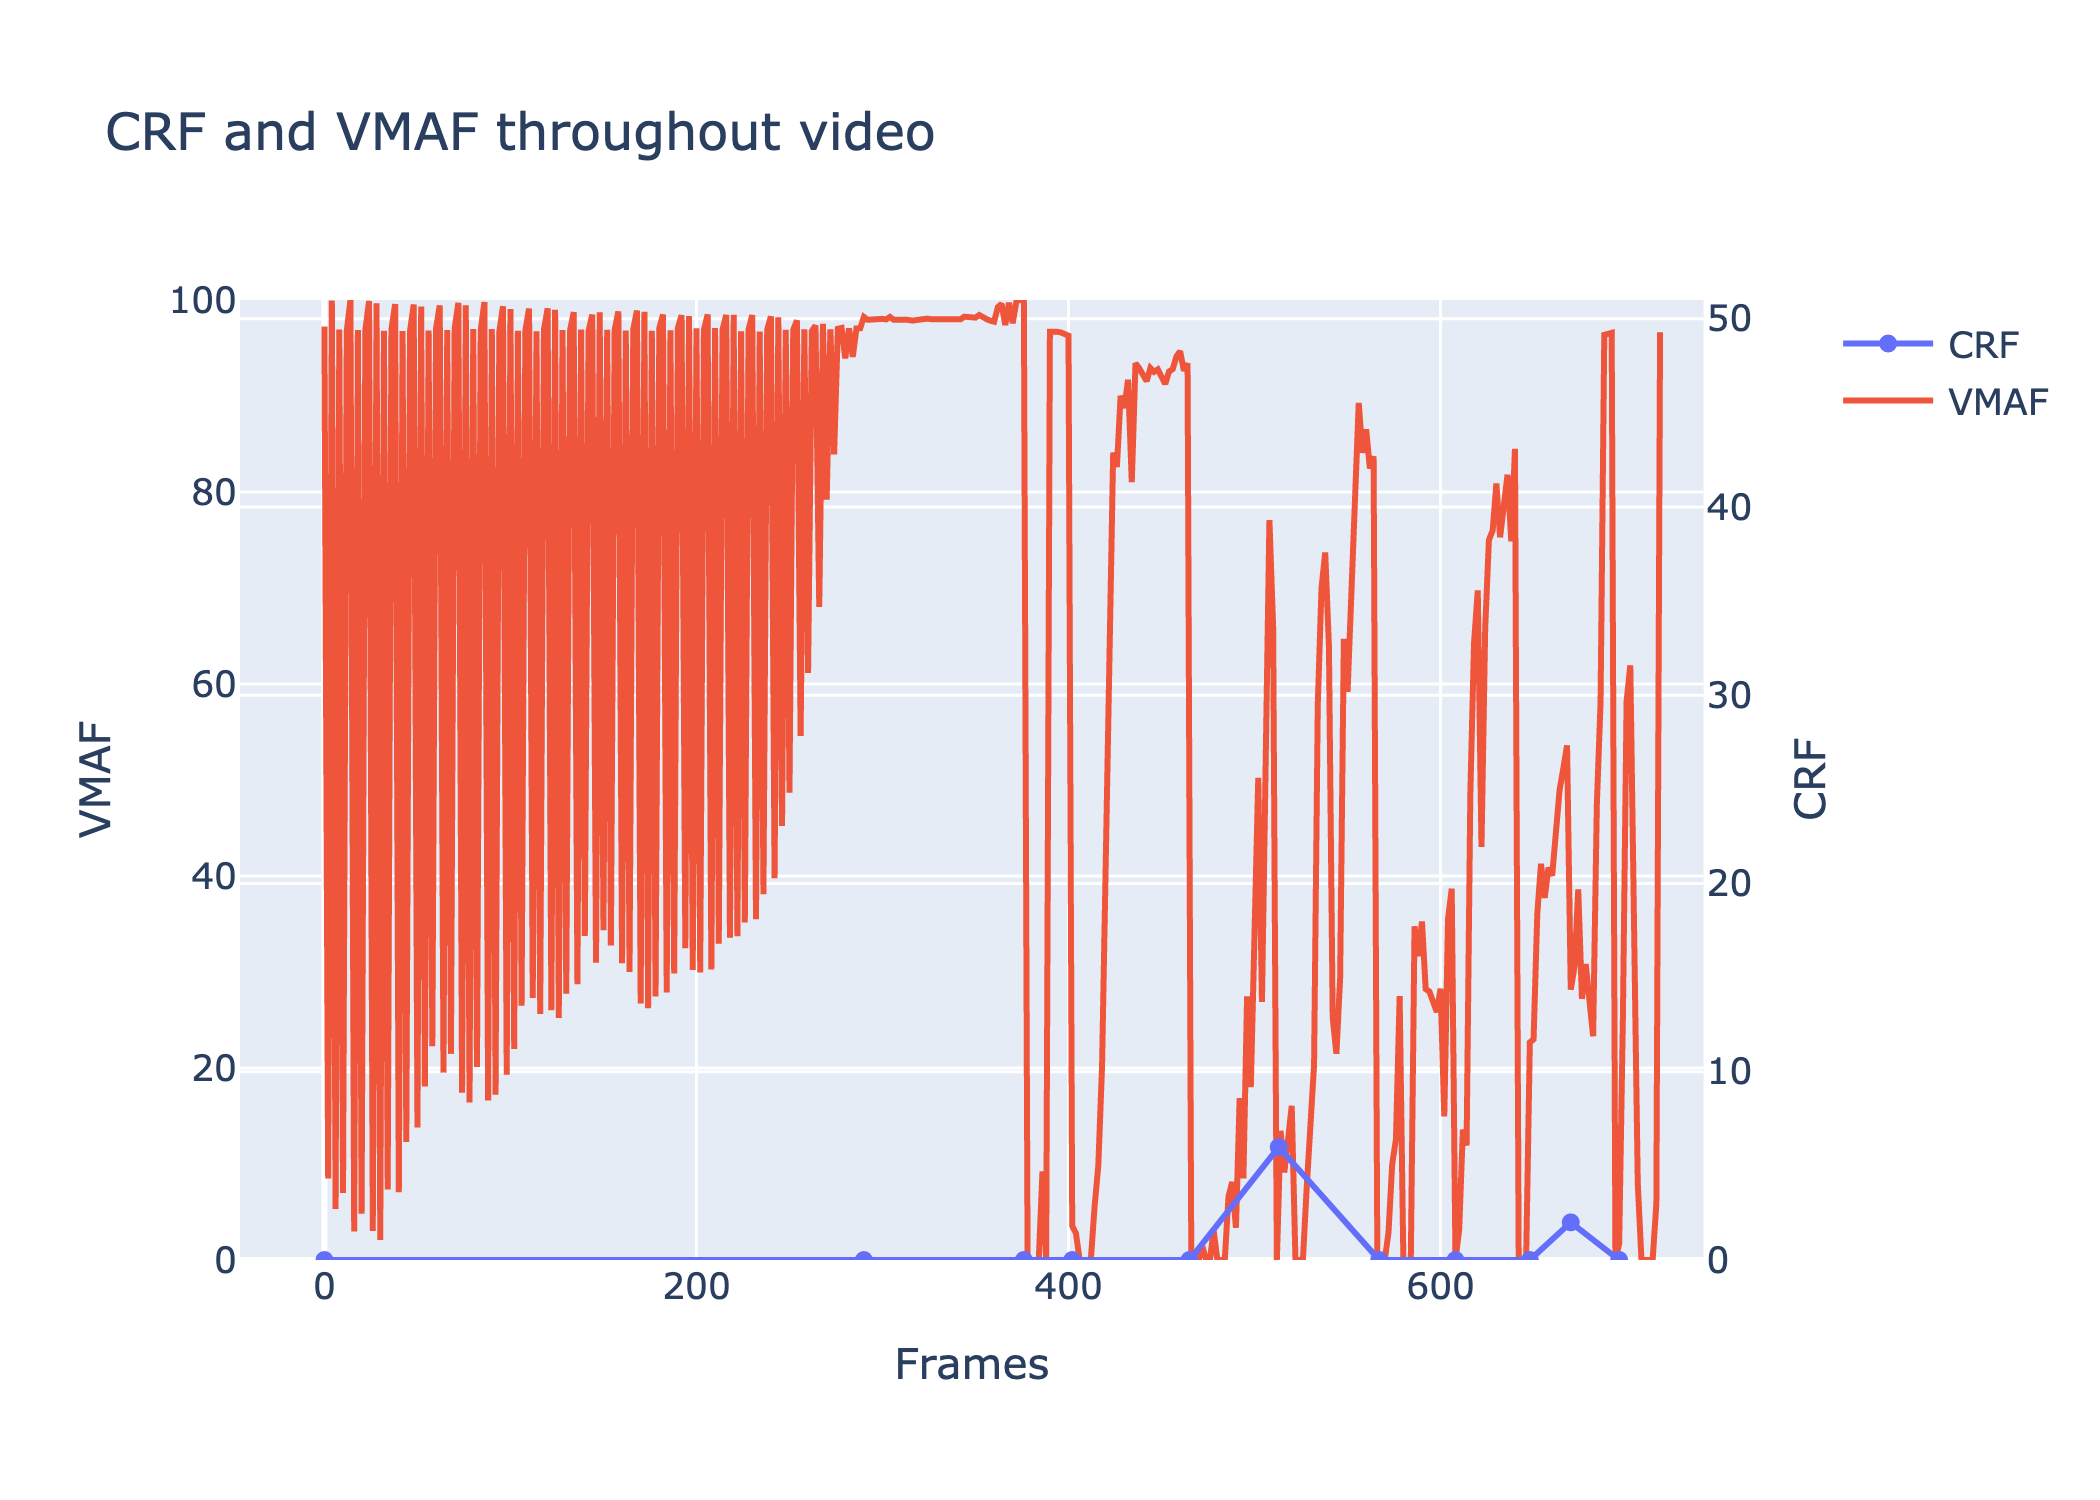
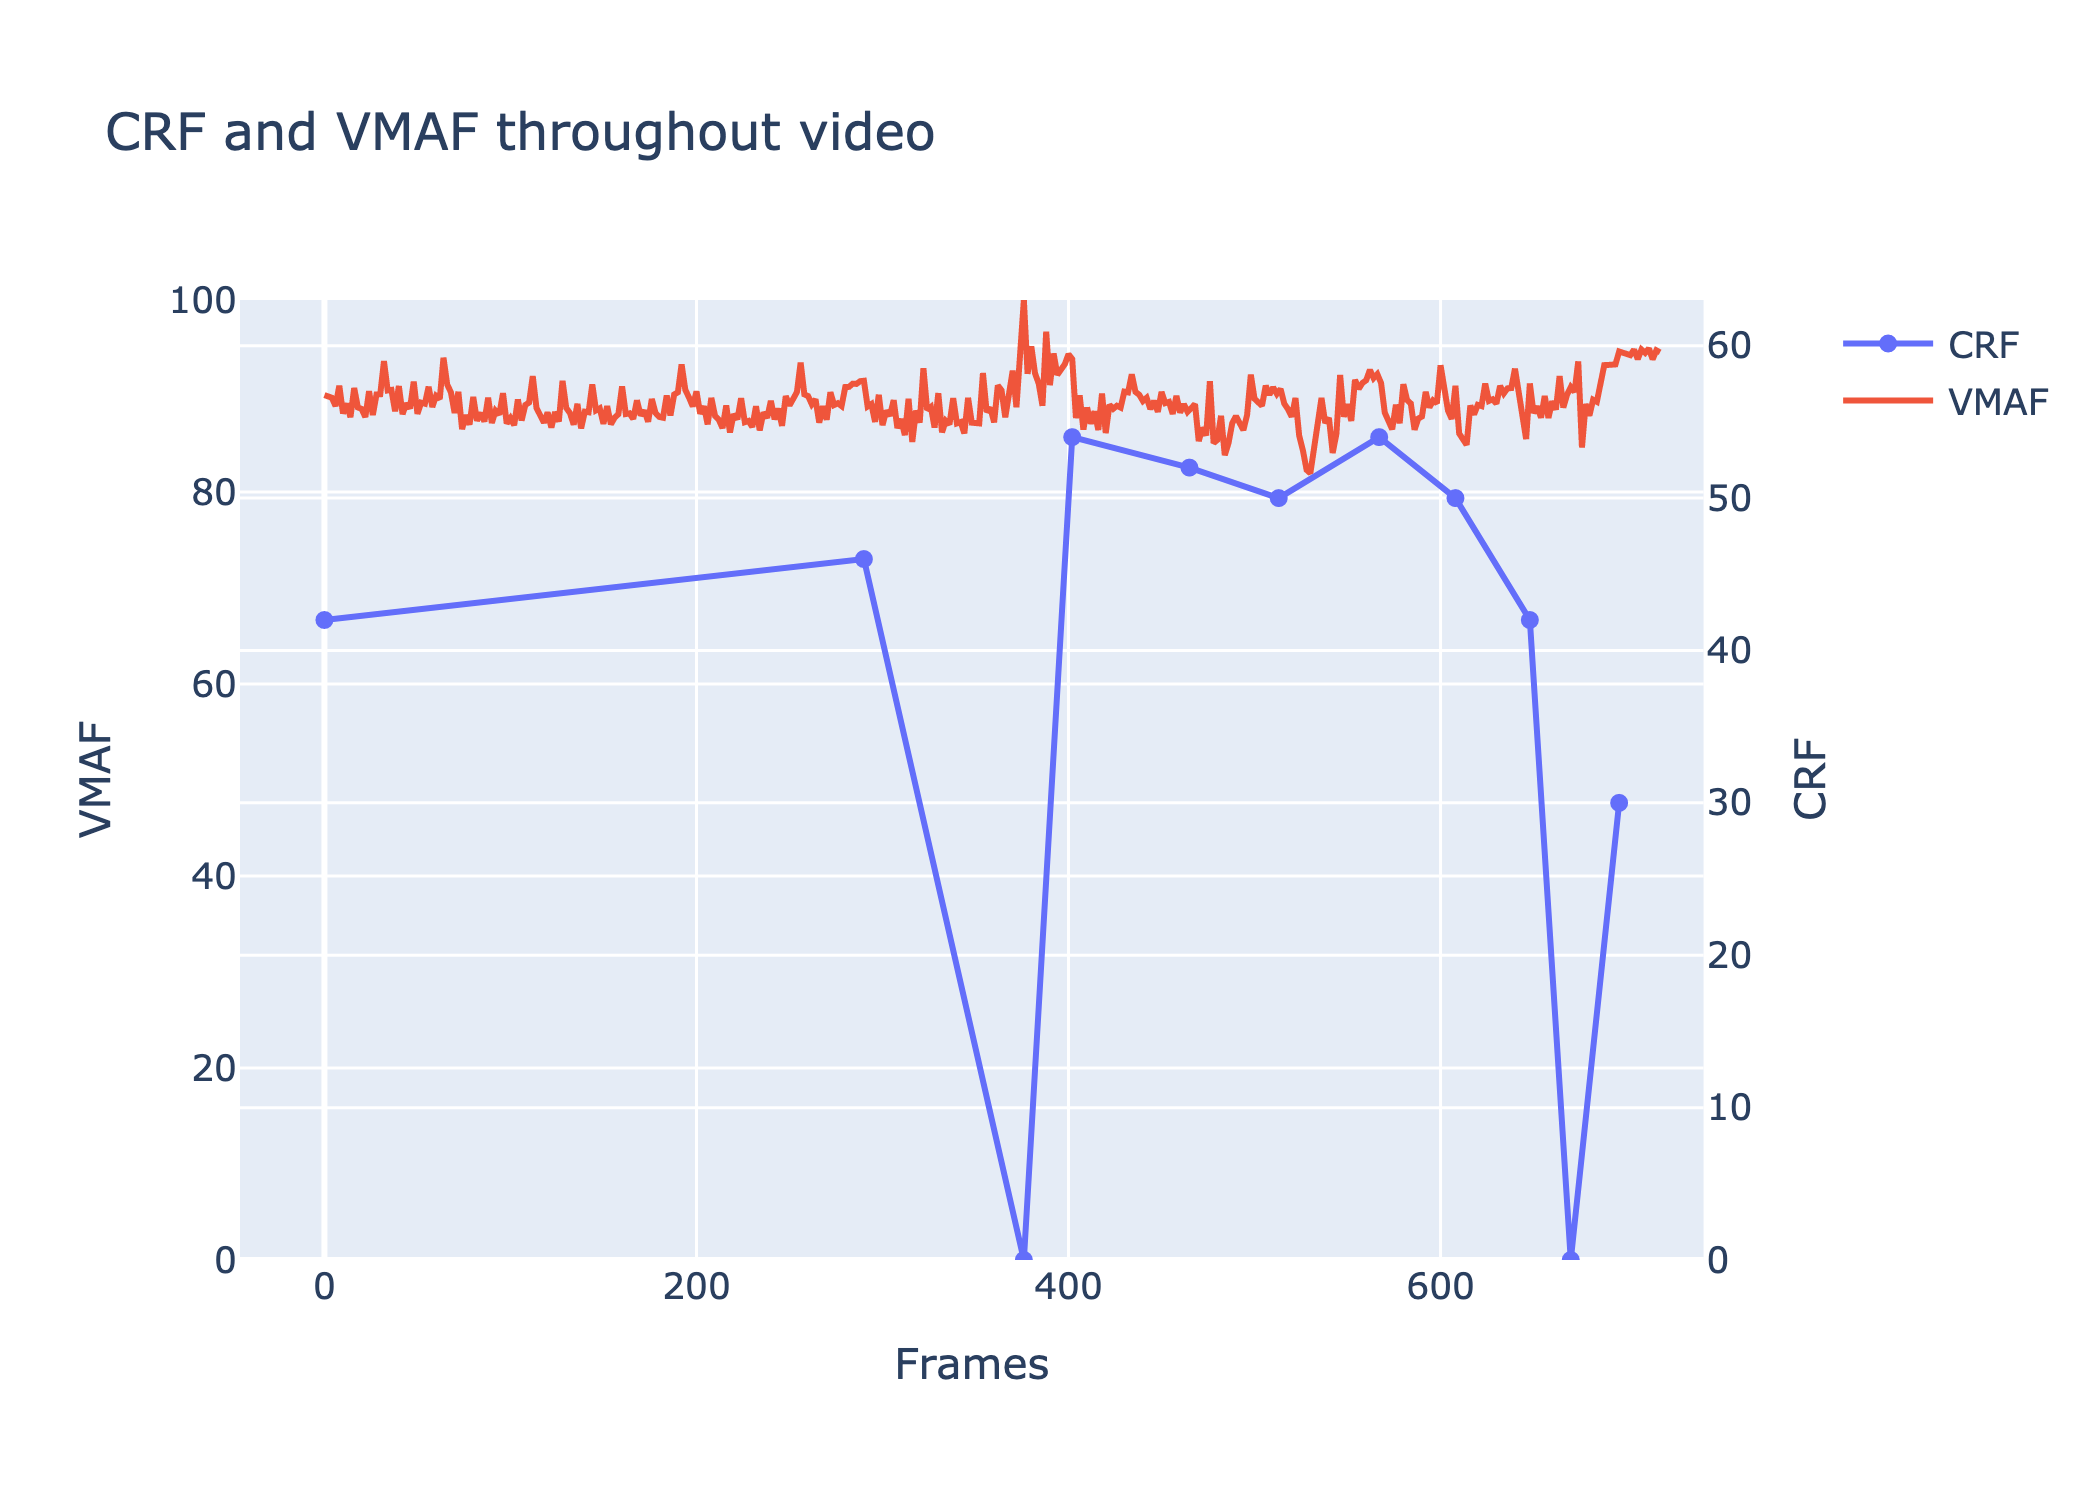
finally 100% working

Changed region(s): [[0.1548, 0.184, 0.8357, 0.8587]]

diff --git a/src/testing-functionality.py b/src/testing-functionality.py
@@ -4,63 +4,111 @@ from rich import print
 import ffmpeg_heuristics
 import graph_generate
 import scene_detection
+# import subprocess
+
 
 input_file = "short-smallest.mp4"
 output_file = "testing-functionality-file.mp4"
 
 
-def split_rejoin_on_scenes_test():
-    scenes = scene_detection.find_scenes(input_file, threshold=27)
-    output_file_names = [f"{x}-{output_file}" for x in range(len(scenes))]
-    for i, scene in enumerate(scenes):
-        with ffmpeg.FfmpegCommand(
-            input_file,
-            ffmpeg.SVTAV1(),
-            scene.start_timecode,
-            scene.end_timecode,
-            output_file_names[i],
-            "ffmpeg",
-            None,
-            "yuv420p10le",
-            300,
-        ) as command:
-            command.run_ffmpeg_command(
-                2,  # lossless
-            )
-
-    ffmpeg.concatenate_video_files(output_file_names, output_file, "ffmpeg")
-
-    for file in output_file_names:
-        os.remove(file)
-
-    del output_file_names
-
-    vmaf = ffmpeg_heuristics.VMAF(90).throughout_video(
-        input_file, output_file, "ffmpeg", subsample=1
+def print_frames_count(file_name: str, video_name: str) -> None:
+    print(f"Filename: {file_name} frames:")
+    _ = os.system(
+        f"ffprobe -i {file_name} -print_format json -loglevel fatal -show_streams -count_frames -select_streams v | grep frames"
     )
 
-    with graph_generate.linegraph_image(
-        "comparison_graph", "png", "TEST - compare VMAF with almost lossless", "frames"
-    ) as graph:
-        graph.add_linegraph(
-            list(range(len(vmaf))), vmaf, "vmaf", "lines", "left", range(0, 101)
+
+class split_rejoin_on_scenes_test:
+    def __init__(self) -> None:
+        scenes = scene_detection.find_scenes(input_file, threshold=27)
+        output_file_names = [f"{x}-{output_file}" for x in range(len(scenes))]
+
+        self.split_usual_method(scenes, output_file_names)
+        # self.split_using_segment_muxer_fragile_implementation(scenes, output_file_names)
+
+        ffmpeg.concatenate_video_files(output_file_names, output_file, "ffmpeg")
+
+        for file in output_file_names:
+            os.remove(file)
+
+        del output_file_names
+
+        # vmaf = ffmpeg_heuristics.VMAF(90).throughout_video(
+        #     input_file, output_file, "ffmpeg", subsample=1
+        # )
+        vmaf = ffmpeg_heuristics.VMAF(90).throughout_video(
+            input_file,
+            output_file,
+            "ffmpeg",
+            subsample=1,
+            encode_start_end_frame=(10, 100),
+            source_start_end_frame=(10, 100),
         )
 
-    ffmpeg.visual_comparison_of_video_with_blend_filter(
-        input_file,
-        output_file,
-        "ffmpeg",
-        "TEST - compare with virtually lossless.mp4",
-    )
+        with graph_generate.linegraph_image(
+            "comparison_graph",
+            "png",
+            "TEST - compare VMAF with almost lossless",
+            "frames",
+        ) as graph:
+            graph.add_linegraph(
+                list(range(len(vmaf))), vmaf, "vmaf", "lines", "left", range(0, 101)
+            )
 
-    # At the end
-    print("vmaf data:")
-    print(vmaf)
+        ffmpeg.visual_comparison_of_video_with_blend_filter(
+            input_file,
+            output_file,
+            "ffmpeg",
+            "TEST - compare with virtually lossless.mp4",
+        )
+
+        # At the end
+        print("vmaf data:")
+        print(vmaf)
+
+        print_frames_count(input_file, input_file)
+        print_frames_count(output_file, output_file)
+
+    ########## Spliting methods
+
+    def split_usual_method(
+        self, scenes: list[scene_detection.scene_data], output_file_names: list[str]
+    ) -> None:
+        for i, scene in enumerate(scenes):
+            with ffmpeg.FfmpegCommand(
+                input_file,
+                ffmpeg.SVTAV1(),
+                scene.start_frame,
+                scene.end_frame,
+                output_file_names[i],
+                "ffmpeg",
+                None,
+                "yuv420p10le",
+                300,
+            ) as command:
+                command.run_ffmpeg_command(
+                    2,  # lossless
+                )
+
+    def split_using_segment_muxer_fragile_implementation(
+        self, scenes: list[scene_detection.scene_data], output_file_names: list[str]
+    ):
+        # for scene, filename in zip(scenes, output_file_names):
+        segment_times = ",".join(str(x.start_timecode) for x in scenes)
+        _ = os.system(
+            f"ffmpeg -i {input_file} -c copy -reset_timestamps 1 -segment_times {segment_times} -y -f segment %02d-{output_file}"
+        )
+        _ = input(
+            f"ffmpeg -i {input_file} -c copy -reset_timestamps 1 -segment_times {segment_times} -y -f segment %02d-{output_file}"
+        )
+        _ = input(len([str(x.start_timecode) for x in scenes]))
 
 
 def main() -> None:
     """Running tests to ensure functions are working"""
-    split_rejoin_on_scenes_test()  # This has shown that it is definitely a video splitting problem
+    _ = (
+        split_rejoin_on_scenes_test()
+    )  # This has shown that it is definitely a video splitting problem
 
 
 if __name__ == "__main__":

diff --git a/src/ffmpeg_heuristics.py b/src/ffmpeg_heuristics.py
@@ -1,4 +1,5 @@
 from dataclasses import dataclass
+import ffmpeg
 import os
 import json
 import subprocess
@@ -37,22 +38,25 @@ class VMAF:
         source_video_path: str,
         encoded_video_path: str,
         ffmpeg_path: str,
-        source_start_end_time: None | tuple[str, str] = None,
-        encode_start_end_time: None | tuple[str, str] = None,
+        source_start_end_frame: None | tuple[int, int] = None,
+        encode_start_end_frame: None | tuple[int, int] = None,
         threads_to_use: int = 6,
         subsample: int = 2,  # Calculate per X frames
     ) -> float:
         print("Running FFMPEG COMMAND for vmaf")
         ffmpeg_command: list[str] = [ffmpeg_path, "-hide_banner"]
+        frame_rate = ffmpeg.get_frame_rate(encoded_video_path)
 
-        if encode_start_end_time is not None:
-            ffmpeg_command.extend(["-ss", encode_start_end_time[0]])
-            ffmpeg_command.extend(["-to", encode_start_end_time[1]])
+        if encode_start_end_frame is not None:
+            ffmpeg_command.extend(["-ss", str(encode_start_end_frame[0] / frame_rate)])
+            ffmpeg_command.extend(["-to", str(encode_start_end_frame[1] / frame_rate)])
+        ffmpeg_command.extend(["-r", str(frame_rate)])
         ffmpeg_command.extend(["-i", encoded_video_path])
 
-        if source_start_end_time is not None:
-            ffmpeg_command.extend(["-ss", source_start_end_time[0]])
-            ffmpeg_command.extend(["-to", source_start_end_time[1]])
+        if source_start_end_frame is not None:
+            ffmpeg_command.extend(["-ss", str(source_start_end_frame[0] / frame_rate)])
+            ffmpeg_command.extend(["-to", str(source_start_end_frame[1] / frame_rate)])
+        ffmpeg_command.extend(["-r", str(frame_rate)])
         ffmpeg_command.extend(["-i", source_video_path])
 
         # https://www.bannerbear.com/blog/how-to-trim-a-video-using-ffmpeg/#:~:text=You%20can%20trim%20the%20input%20video%20to%20a%20specific%20duration,the%20beginning%20of%20the%20video.&text=In%20the%20command%20above%2C%20%2Dvf,the%20duration%20to%203%20seconds.
@@ -99,22 +103,25 @@ class VMAF:
         source_video_path: str,
         encoded_video_path: str,
         ffmpeg_path: str,
-        source_start_end_time: None | tuple[str, str] = None,
-        encode_start_end_time: None | tuple[str, str] = None,
+        source_start_end_frame: None | tuple[int, int] = None,
+        encode_start_end_frame: None | tuple[int, int] = None,
         threads_to_use: int = 6,
         subsample: int = 2,  # Calculate per X frames
     ) -> list[float]:
         print("Running FFMPEG-throughout COMMAND for vmaf")
         ffmpeg_command: list[str] = [ffmpeg_path, "-hide_banner"]
+        frame_rate = ffmpeg.get_frame_rate(encoded_video_path)
 
-        if encode_start_end_time is not None:
-            ffmpeg_command.extend(["-ss", encode_start_end_time[0]])
-            ffmpeg_command.extend(["-to", encode_start_end_time[1]])
+        if encode_start_end_frame is not None:
+            ffmpeg_command.extend(["-ss", str(encode_start_end_frame[0] / frame_rate)])
+            ffmpeg_command.extend(["-to", str(encode_start_end_frame[1] / frame_rate)])
+        ffmpeg_command.extend(["-r", str(frame_rate)])
         ffmpeg_command.extend(["-i", encoded_video_path])
 
-        if source_start_end_time is not None:
-            ffmpeg_command.extend(["-ss", source_start_end_time[0]])
-            ffmpeg_command.extend(["-to", source_start_end_time[1]])
+        if source_start_end_frame is not None:
+            ffmpeg_command.extend(["-ss", str(source_start_end_frame[0] / frame_rate)])
+            ffmpeg_command.extend(["-to", str(source_start_end_frame[1] / frame_rate)])
+        ffmpeg_command.extend(["-r", str(frame_rate)])
         ffmpeg_command.extend(["-i", source_video_path])
 
         ffmpeg_command.extend(
@@ -130,6 +137,7 @@ class VMAF:
         )
 
         try:
+            print(f"RUNNNING COMMAND: {" ".join(ffmpeg_command)}")
             _ = subprocess.run(" ".join(ffmpeg_command), shell=True, check=True)
         except FileNotFoundError as e:
             print("WARNING: FFMPEG NOT FOUND ON SYSTEM!!")

diff --git a/src/ffmpeg.py b/src/ffmpeg.py
@@ -135,8 +135,8 @@ class FfmpegCommand:
     input_filename: str
     codec_information: video
 
-    start_time_seconds: str
-    end_time_seconds: str
+    start_time_frame: int
+    end_time_frame: int
 
     output_filename: str
     ffmpeg_path: str
@@ -151,13 +151,21 @@ class FfmpegCommand:
     def run_ffmpeg_command(
         self, crf_value: int, override_output_file_name: str | None = None
     ) -> None:
+        # self.end_time_frame -= (
+        #     0  # TO PREVENT OVERLAP BETWEEN FRAMES --> prevent duplication
+        # )
+
+        framerate: float = get_frame_rate(self.input_filename)
+        start_time_seconds = self.start_time_frame / framerate
+        end_time_seconds = self.end_time_frame / framerate
+
         command: list[str] = [
             self.ffmpeg_path,
             # "-hide_banner -loglevel error",
             "-accurate_seek",
             f'-i "{self.input_filename}"',
-            f"-ss {self.start_time_seconds}",  # -ss After is **very important** for accuracy!!
-            f"-to {self.end_time_seconds}",
+            f"-ss {start_time_seconds}",  # -ss After is **very important** for accuracy!!
+            f"-to {end_time_seconds}",
             # f"-vf trim={self.start_time_seconds}:{self.end_time_seconds},setpts=PTS-STARTPTS",  # is this faster + as accurate?
             *self.codec_information.to_subprocess_command(),
             "-an",
@@ -391,6 +399,19 @@ def visual_comparison_of_video_with_blend_filter(
         )
     except subprocess.CalledProcessError:
         print("ERROR FAILED TO OUTPUT VISUAL COMPARISON (with blend filter)")
+
+
+# Is this necessary?
+def get_frame_rate(filename: str) -> float:
+    data = subprocess.run(
+        f"ffprobe -i {filename} -print_format json -loglevel fatal -show_streams -count_frames -select_streams v | grep r_frame_rate",
+        shell=True,
+        check=True,
+        capture_output=True,
+    ).stdout.decode()
+    return float(
+        eval(data.strip().split(":")[1].replace(",", "").replace('"', "").strip())
+    )
 
 
 # ffmpeg -i video1.mkv -i video2.mkv -filter_complex "[0:V:0]crop=960:1080:0:0[v1];[1:V:0]crop=960:1080:960:0[v2];[v1][v2]hstack=2[out]" -map "[out]" output.mkv

diff --git a/src/main_program.py b/src/main_program.py
@@ -21,7 +21,7 @@ def main() -> None:
     # video_path: str = "input.mov"
     # video_path: str = "input-copy.mov"
     # video_path: str = "input_long_5mins.mp4"
-    video_path: str = "short.mp4"
+    video_path: str = "short-fix.mp4"
     # video_path: str = "short-smallest.mp4"
     # video_path: str = "test.mkv"
 
@@ -31,9 +31,9 @@ def main() -> None:
         # ffmpeg_codec_information=ffmpeg.H264(
         #     preset="ultrafast", faststart=False
         # ),  # 'fast' prototyping
-        # ffmpeg_codec_information=ffmpeg.SVTAV1(preset=6),
-        ffmpeg_codec_information=ffmpeg.H265(preset="faster"),
-        heuristic_type=ffmpeg_heuristics.VMAF(target_score=85),
+        ffmpeg_codec_information=ffmpeg.SVTAV1(preset=6),
+        # ffmpeg_codec_information=ffmpeg.H264(preset="faster"),
+        heuristic_type=ffmpeg_heuristics.VMAF(target_score=89),
         # other parameters
         crop_black_bars=False,
         extra_current_crf_itterate_amount=2,  # probably speeds up by a **very small** amount
